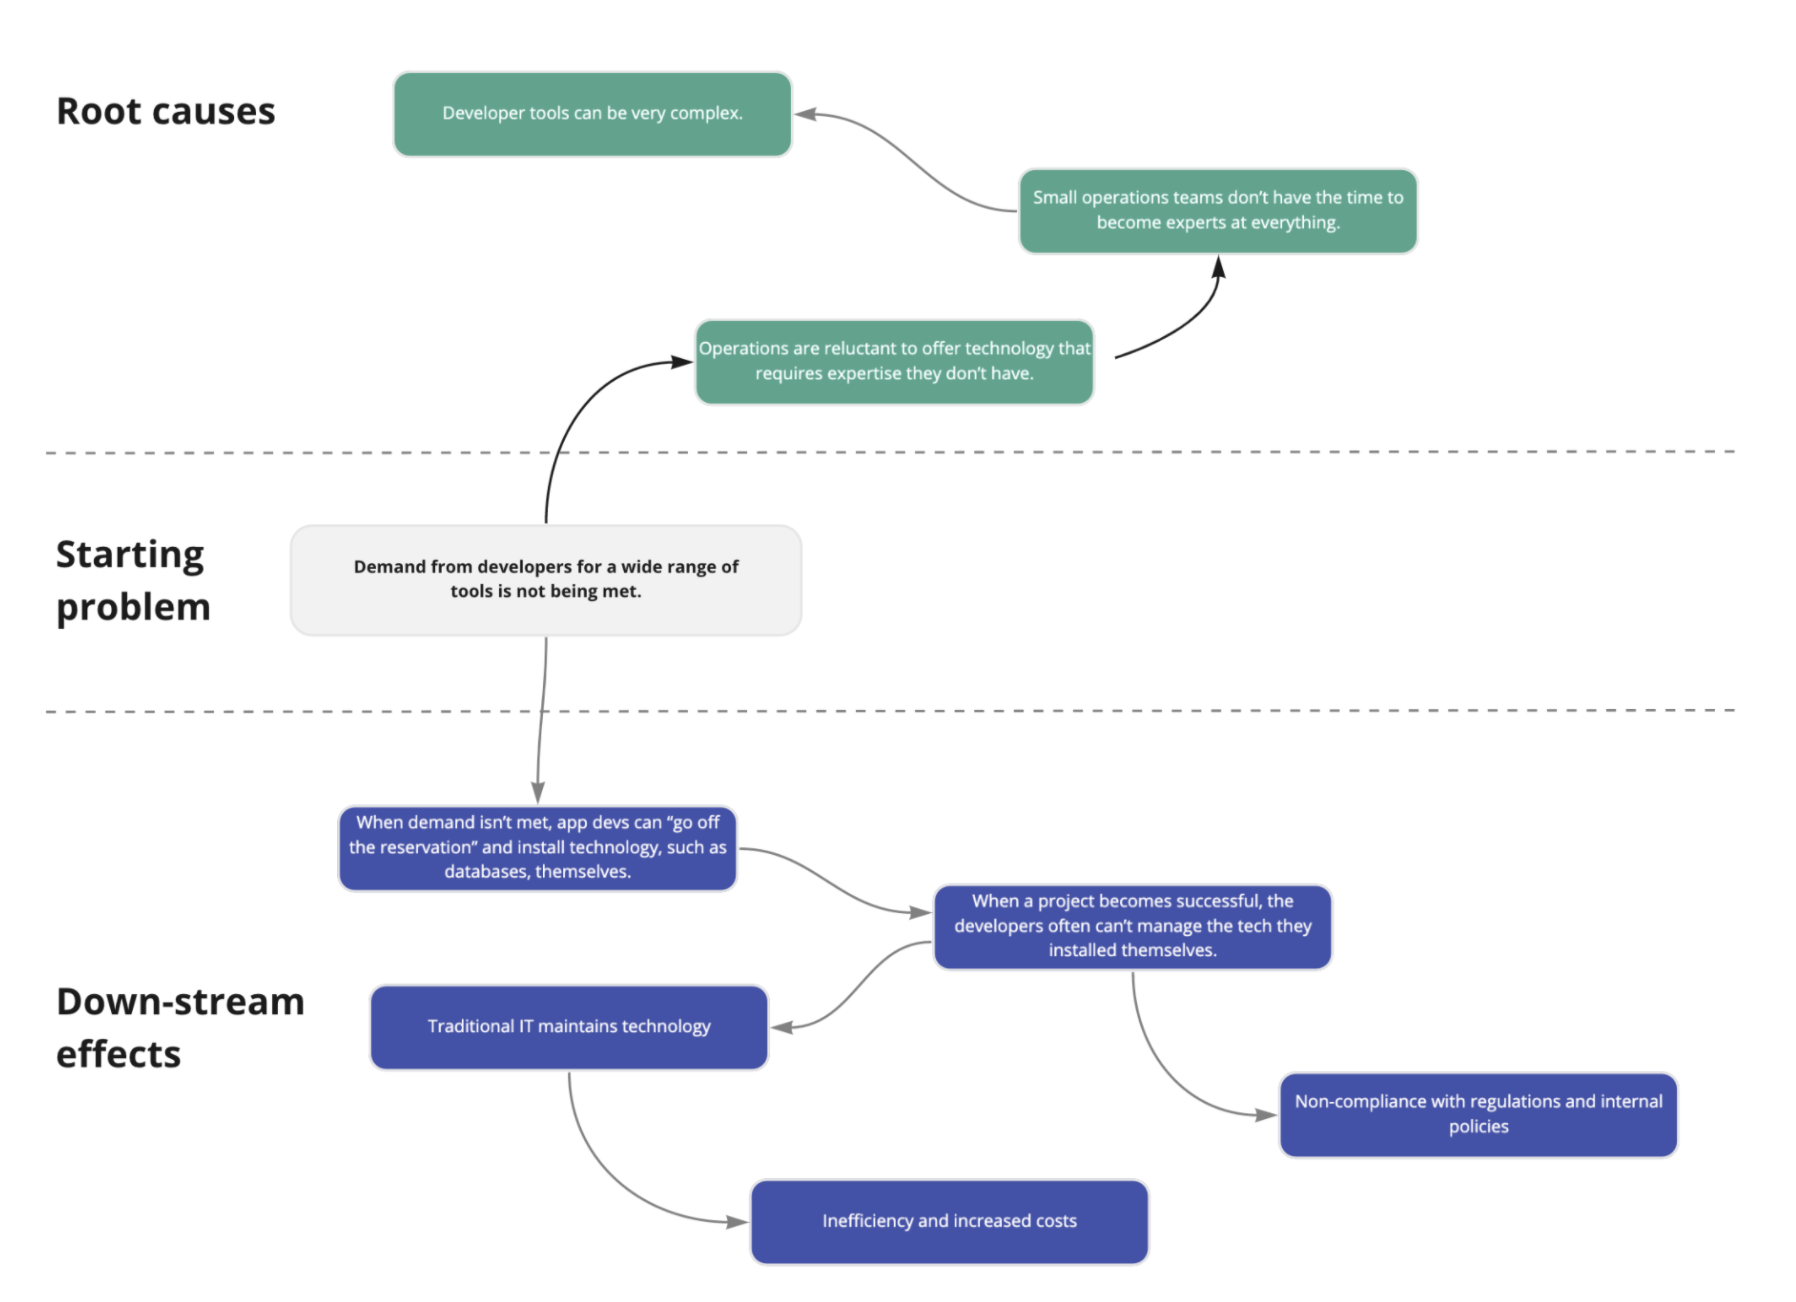
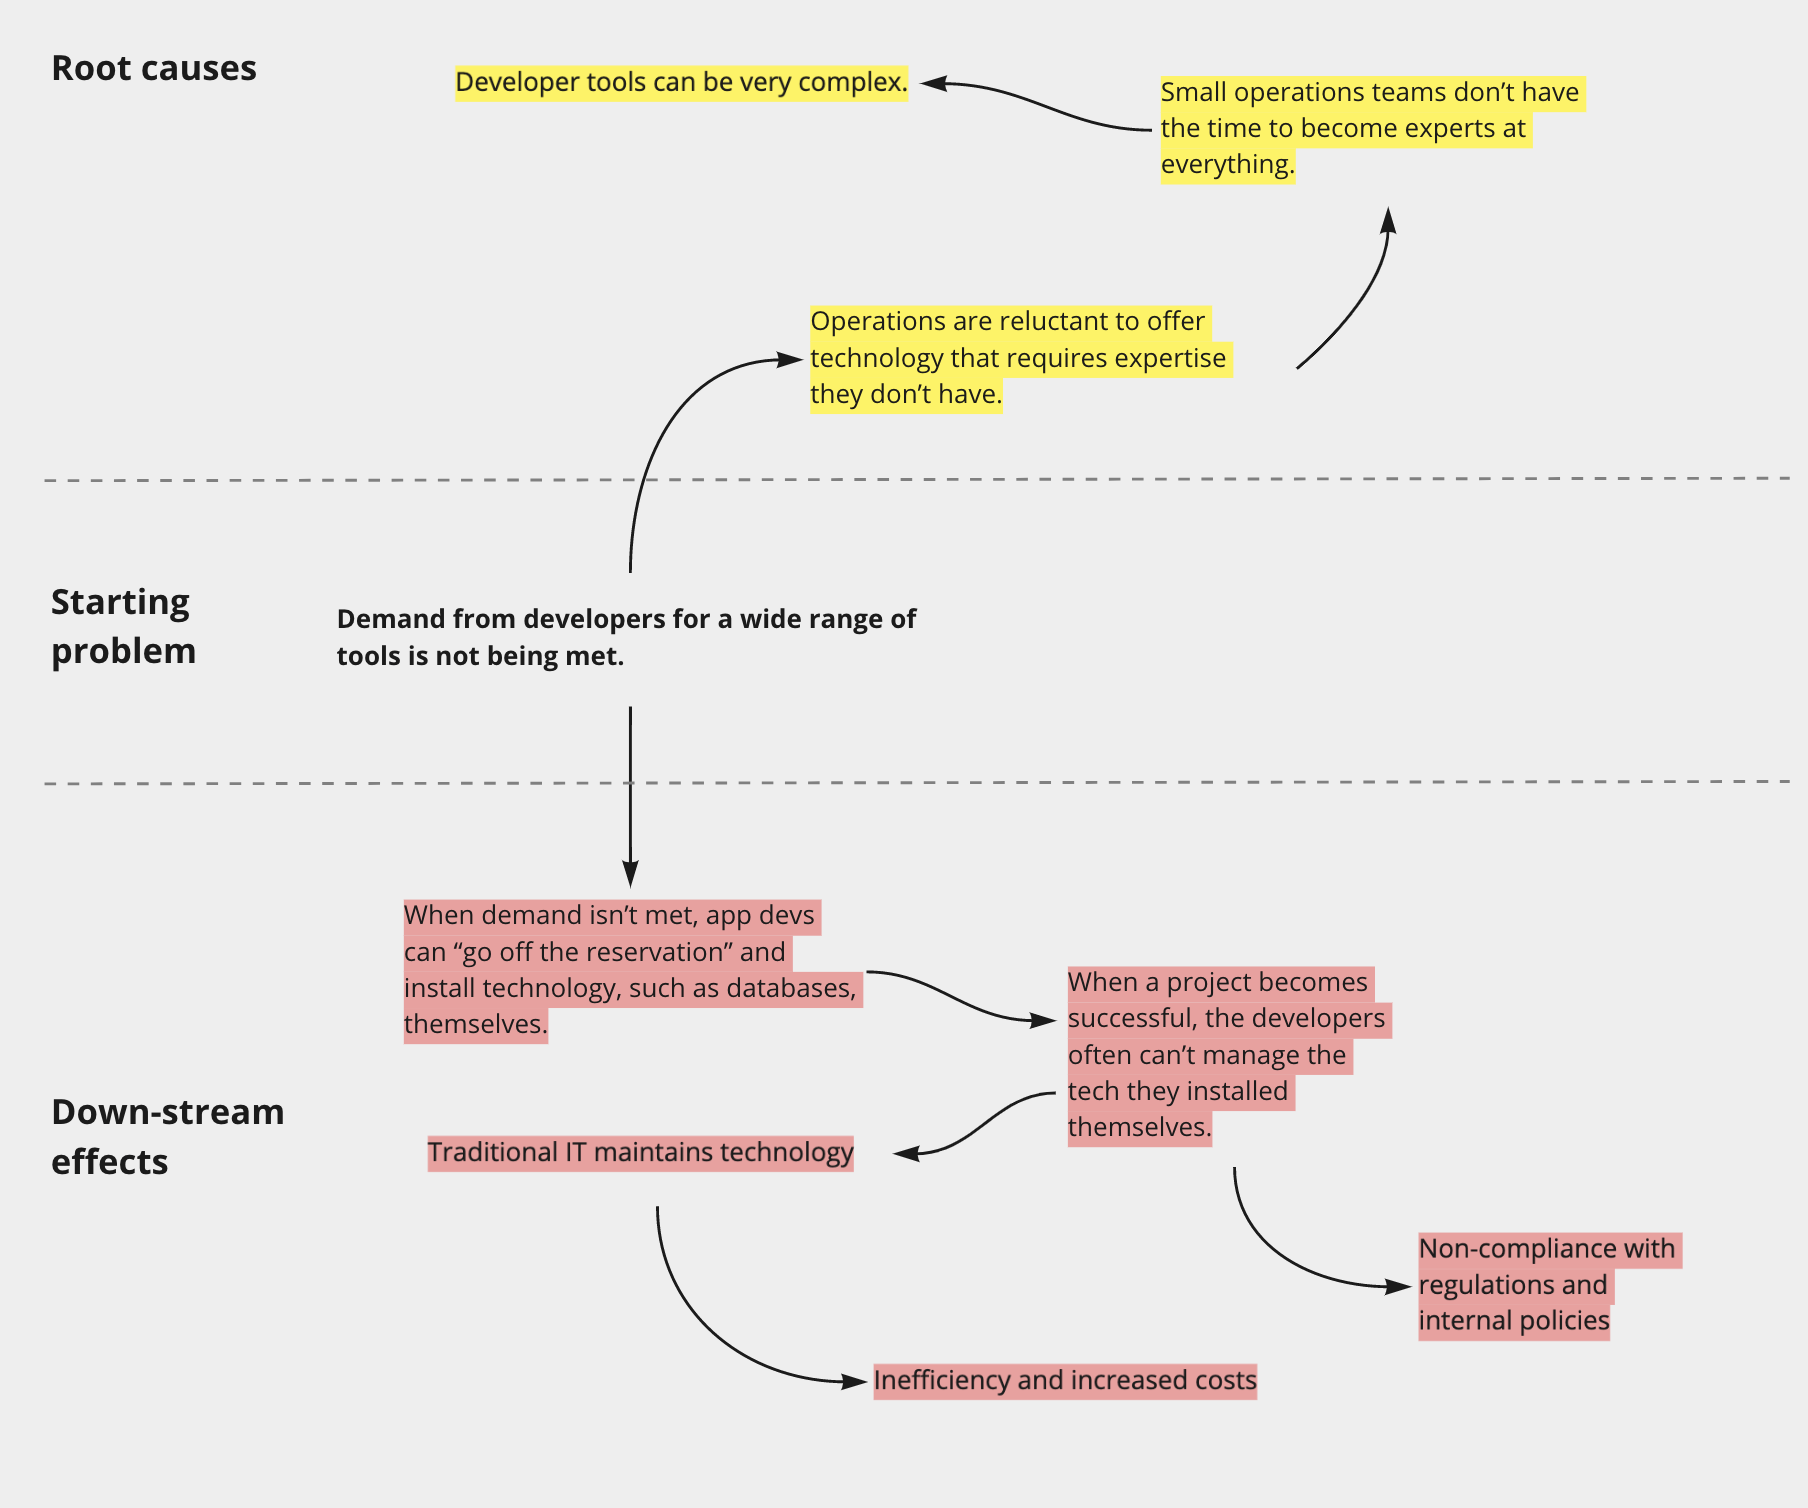
Change

diff --git a/console.html b/console.html
@@ -587,7 +587,7 @@
       </div>
       <div class="col-md text-light">
         <div class="regular-lg pb-4 text-light">
-	        <div class="bold-5 text-light" style="color:#fff;">
+	        <div class="bold-5 text-extra-light">
 	        	Panel of advisory experts
 	        </div> 
 						These included people from related product teams, field engineers and marketing from Europe and North America. I set up two sessions with them on Wednesday and Friday, and presented our progress.
@@ -605,7 +605,7 @@
       </div>
       <div class="col-md">
         <div class="regular-lg pb-4 text-light">
-	        <div class="bold-5 text-light">
+	        <div class="bold-5 text-extra-light">
 	        	Field engineer participation
 	        </div> 	
 					Several field engineers volunteered their time. We included them in activities and asked them to evaluate early ideas.
@@ -623,7 +623,7 @@
       </div>
       <div class="col-md">
         <div class="regular-lg pb-4 text-light">
-	        <div class="bold-5 text-light">
+	        <div class="bold-5 text-extra-light">
 	        	Open doors
 	        </div> 				
 						Actually no doors, as we set up our workshop in an open area. I invited the whole Pivotal office to stop by any time. When they showed up, one of us would take the lead and explain our current thinking, and how we got there.
@@ -738,19 +738,39 @@
           Causality mapping helped us see the big picture.
         </div>
       </div>
-      <div class="regular-lg pb-3">
-				With help from the field, we took our top problems and explored root causes by asking ourselves "why?" as many times as possible. This helped us see relationships between problems and identify big pain points that lead to a lot of down-stream problems.
-			</div>
     </div>
   </div>
+
   <div class="container-fluid-content-02 pb-5" style="max-width: 1200px; padding-top:0px; ">
     <div class="row gx-3">
       <div class="col-md">
         <img src="images/console-22-01.png" class="img-fluid center-block d-block mx-auto" alt="image"> 
         <div class="caption pt-3">
         	Our causality map starts with a customer problem at the left (there is a lot more demand for developer toos than supply). The <span style="background-color:  
-				#FDF248;">yellow nodes</span> are root causes and the <span style="background-color:  
-				#CFEBFF;">blue nodes</span> are possible solutions.
+						#FDF248;">yellow nodes</span> are root causes and the <span style="background-color:  
+						#CFEBFF;">blue nodes</span> are possible solutions.
+        </div>
+       
+      </div>
+    </div>
+  </div>
+
+  <div class="container-fluid-content-02 overflow-hidden" style="max-width: 600px; padding-bottom:0px;">
+    <div class="row">
+      <div class="col-md">
+				<div class="regular-lg pb-5">
+	      	<div class="bold-5">Root cause analysis</div>
+					With help from the field, we took our top problems and explored root causes by asking ourselves "why?" as many times as possible. This helped us see relationships between problems and identify big pain points that lead to a lot of down-stream problems.
+				</div>
+	    </div>
+		</div>
+	</div>
+	<div class="container-fluid-content-02 pb-5" style="max-width: 900px; padding-top:0px; ">
+    <div class="row gx-3">
+      <div class="col-md">
+        <img src="images/console-23.png" class="img-fluid center-block d-block mx-auto" alt="image"> 
+        <div class="caption pt-3">
+        	Down stream effects helped us better understand the value we might bring to the customers. 
         </div>
       </div>
       
@@ -759,17 +779,21 @@
   <div class="container-fluid-content-02 overflow-hidden" style="max-width: 600px; padding-bottom:0px;">
     <div class="row">
       <div class="col-md">
-				<div class="regular-lg pb-4">
+				<div class="regular-lg pb-5">
 					<div class="bold-5">Down-stream effects analysis</div>
-					We explored how problems often cascade into dysfunction, higher costs and frustration.
+					We explored how problems often cascade into dysfunction, higher costs and frustration. It is in these downstream effects that we can better understand what value we might be bringing to our customers.
 				</div>
-				<div class="regular-lg pb-4">
-					What’s interesting is we found ourselves folding problem statements from our research, which helped us see connections we did see before.
-        </div>
+	    </div>
+	    <div class="regular-lg pb-4">
+				<div class="bold-5">Chaining solutions to value</div>
+					The outcome I look for in these exercises is intangible. I like to think what I am doing is growing synapses between neurons in everyone's head that weren't there before. 
+				</div>
+	    	<div class="regular-lg pb-5">
+					In other words, I wanted the team to intuitively link a given problem we might solve, say "Operations are reluctant to offer technology that requires expertise they don’t have", to casading effects, such as "inefficiency" and "non-compliance with regulations". We can flip those effects around to say "increase efficiency" and "reduce regualtory risk", which describe value our solutions might bring about.
+				</div>
 	    </div>
 		</div>
 	</div>
-
 
 </div>
 

diff --git a/style.css b/style.css
@@ -16,7 +16,15 @@ h4 {
 
 .bold-5 {
 	font-weight: 700;
-	color: #494949 !important;
+	color: #494949;
+	padding-bottom: 12px;
+	text-transform: uppercase;
+}
+
+.light {
+	font-weight: 700;
+	color: #fff !important;
+	padding-bottom: 8px;
 }
 
 /* Rules for sizing the icon. */
@@ -69,7 +77,7 @@ h4 {
 }
 
 .text-extra-light {
-	color:#eee !important;
+	color:#fff !important;
 }
 
 
